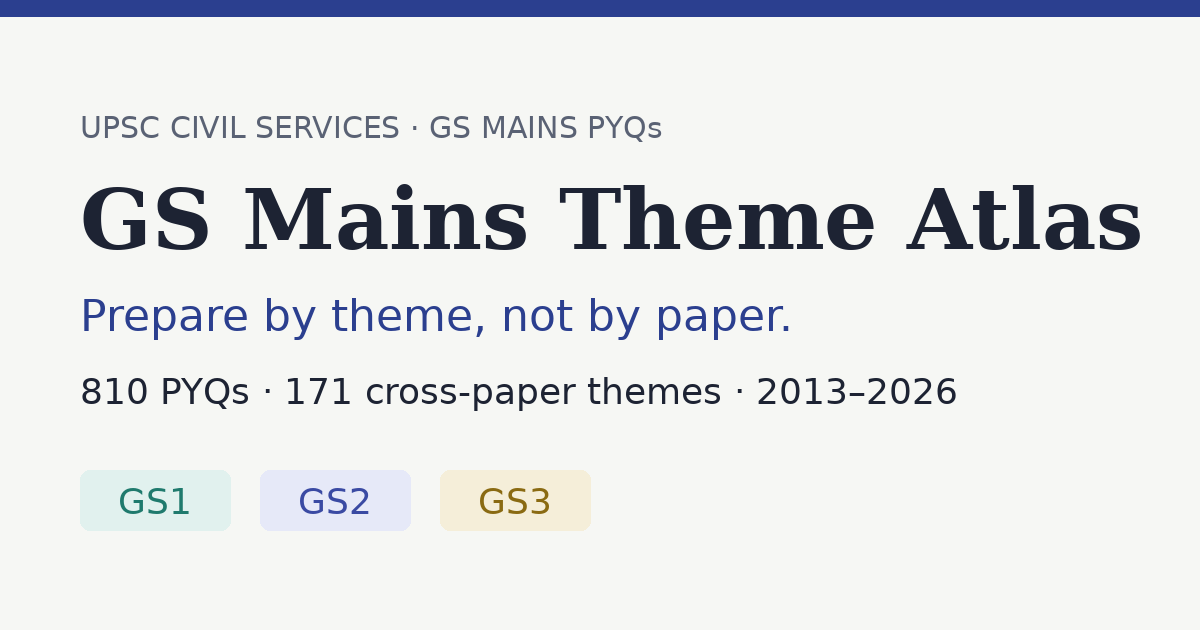
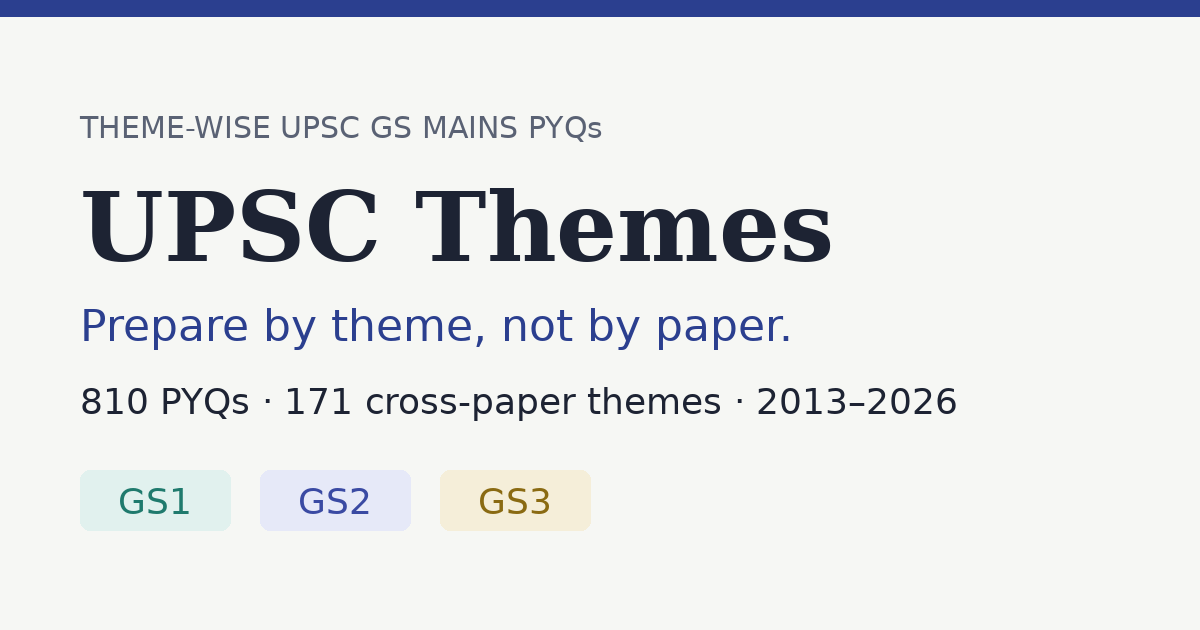
Rename site to UPSC Themes
Claude-Session: https://claude.ai/code/session_014MmwJBJnM9o3W8sSYhGT4K

diff --git a/README.md b/README.md
@@ -1,4 +1,4 @@
-# GS Mains Theme Atlas
+# UPSC Themes
 
 A free, non-commercial site that regroups 810 UPSC GS1–GS3 Mains PYQs (2013–2026) into 171 cross-paper themes, with what UPSC asks, what to prepare, answer-writing pointers, syllabus lines and every question.
 
